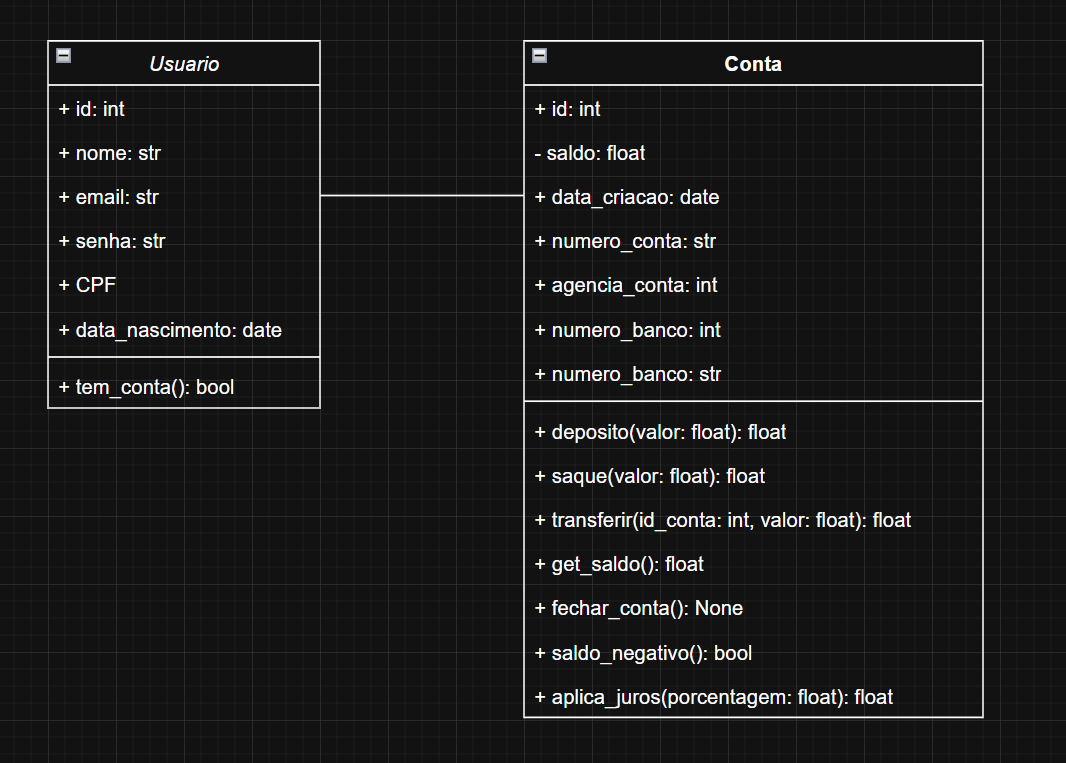
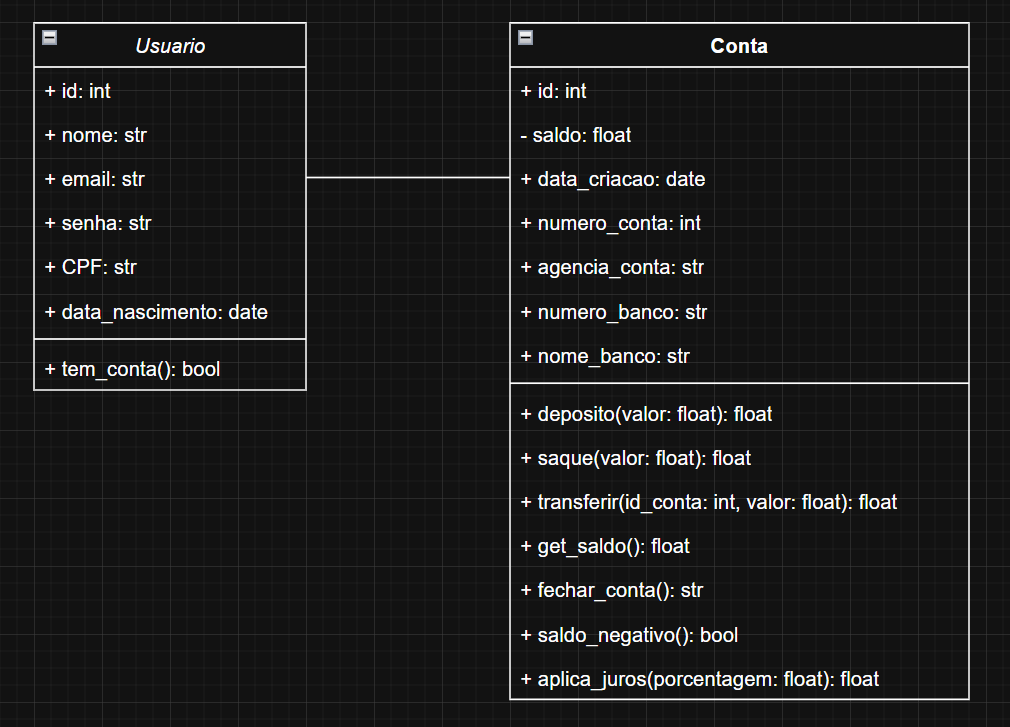
Create classes Conta and Usuario, exceptions and main.py

diff --git a/src/conta.py b/src/conta.py
@@ -1,0 +1,98 @@
+from __future__ import annotations
+
+from datetime import date
+from exeptions.conta_exceptions import SaldoNegativoError, ContaComSaldoError
+from usuario import Usuario
+
+
+class Conta:
+    def __init__(self, numero_conta: int, agencia_conta: str, numero_branco: str, nome_branco: str, usuario: Usuario, saldo: float, data_criacao: date, ativa: bool):
+        self.numero_conta = numero_conta
+        self.agencia_conta = agencia_conta
+        self.numero_branco = numero_branco
+        self.nome_branco = nome_branco
+        self.usuario = usuario
+        self.__saldo = saldo
+        self.data_criacao = data_criacao
+        self.ativa = ativa
+
+    def get_saldo(self) -> float:
+        """
+        Retorna o saldo da conta
+        Returns: saldo da conta
+        """
+        return self.__saldo
+
+    def deposito(self, valor: float) -> float:
+        """
+        Deposita o valor no saldo da conta
+        Args:
+            valor: valor a depositar
+
+        Returns: novo saldo da conta
+
+        """
+        self.__saldo += valor
+        return self.get_saldo()
+
+    def sacar(self, valor: float) -> float:
+        """
+        Sacar um valor no saldo da conta
+        Args:
+            valor: valor a sacar
+
+        Returns: novo saldo da conta
+
+        """
+        self.__saldo -= valor
+        return self.get_saldo()
+
+    def transferir(self, valor: float, conta: Conta) -> float:
+        """
+        Transferir um valor do saldo da conta
+        Args:
+            valor: valor a transferir
+            conta: Conta para transferir
+
+        Returns: novo saldo da conta
+
+        """
+        self.__saldo -= valor
+        conta.deposito(valor)
+        return self.get_saldo()
+
+    def fechar_conta(self) -> str:
+        """
+        Fecha a conta
+        Returns: String com mensagem de fechamento da conta
+
+        """
+        if self.__saldo <= 0:
+            raise SaldoNegativoError(f'Saldo Negativo! Saldo atual: {self.__saldo}')
+        elif self.__saldo > 0:
+            raise ContaComSaldoError(f'Conta com Saldo! Saldo atual: {self.__saldo}')
+        else:
+            self.usuario = None
+            self.ativa = False
+            return 'Conta fechada'
+
+
+    def saldo_negativo(self) -> bool:
+        """
+        Verifica se o saldo esta negativo
+        Returns: true se o saldo esta negativo, false se o saldo nao esta negativo
+
+        """
+        return True if self.__saldo <= 0 else False
+
+    def aplica_juros(self, porcentagem: float) -> float:
+        """
+        Aplica uma porcentagem de juros encima do saldo da conta
+        Args:
+            porcentagem: porcentagem de juros a ser aplicado
+
+        Returns: novo saldo da conta
+
+        """
+        self.__saldo *= porcentagem
+        return self.get_saldo()

diff --git a/src/main.py b/src/main.py
@@ -1,0 +1,37 @@
+from conta import Conta
+from usuario import Usuario
+from datetime import date
+
+usuarios = [
+    Usuario("Ana Silva", 1500.0, "ana.silva@example.com", "senha123", "12345678901", date(1990, 5, 10)),
+    Usuario("Bruno Souza", 800.5, "bruno.souza@example.com", "senha456", "23456789012", date(1985, 8, 22)),
+    Usuario("Carlos Lima", 120.0, "carlos.lima@example.com", "abc12345", "34567890123", date(1992, 2, 28)),
+    Usuario("Daniela Rocha", 2500.75, "daniela.rocha@example.com", "minhasenha", "45678901234", date(1988, 11, 3)),
+    Usuario("Eduardo Mendes", 0.0, "eduardo.mendes@example.com", "segredo789", "56789012345", date(1995, 1, 15)),
+    Usuario("Fernanda Dias", 934.40, "fernanda.dias@example.com", "123senha", "67890123456", date(1993, 7, 19)),
+    Usuario("Gabriel Torres", 3120.90, "gabriel.torres@example.com", "senha321", "78901234567", date(1991, 4, 2)),
+    Usuario("Helena Costa", 1040.30, "helena.costa@example.com", "super1234", "89012345678", date(1989, 12, 8)),
+    Usuario("Igor Barbosa", 160.0, "igor.barbosa@example.com", "meusegredo", "90123456789", date(1994, 6, 25)),
+    Usuario("Julia Fernandes", 720.55, "julia.fernandes@example.com", "senha777", "01234567890", date(1996, 9, 12)),
+]
+
+contas = []
+
+for i, usuario in enumerate(usuarios):
+    conta = Conta(
+        numero_conta=1001 + i,
+        agencia_conta="1234-5",
+        numero_branco="001",
+        nome_branco="Banco VVT",
+        usuario=usuario,
+        saldo=usuario.saldo,
+        data_criacao=date.today(),
+        ativa=True
+    )
+    contas.append(conta)
+
+def main():
+        pass
+
+if __name__ == "__main__":
+    main()

diff --git a/src/usuario.py b/src/usuario.py
@@ -1,0 +1,11 @@
+from datetime import date
+
+
+class Usuario:
+    def __init__(self, nome: str, saldo: float, email: str, senha: str, cpf: str, data_nascimento: date):
+        self.nome = nome
+        self.saldo = saldo
+        self.email = email
+        self.senha = senha
+        self.cpf = cpf
+        self.data_nascimento = data_nascimento

diff --git a/src/exeptions/conta_exceptions.py b/src/exeptions/conta_exceptions.py
@@ -1,0 +1,5 @@
+class SaldoNegativoError(Exception):
+    pass
+
+class ContaComSaldoError(Exception):
+    pass
